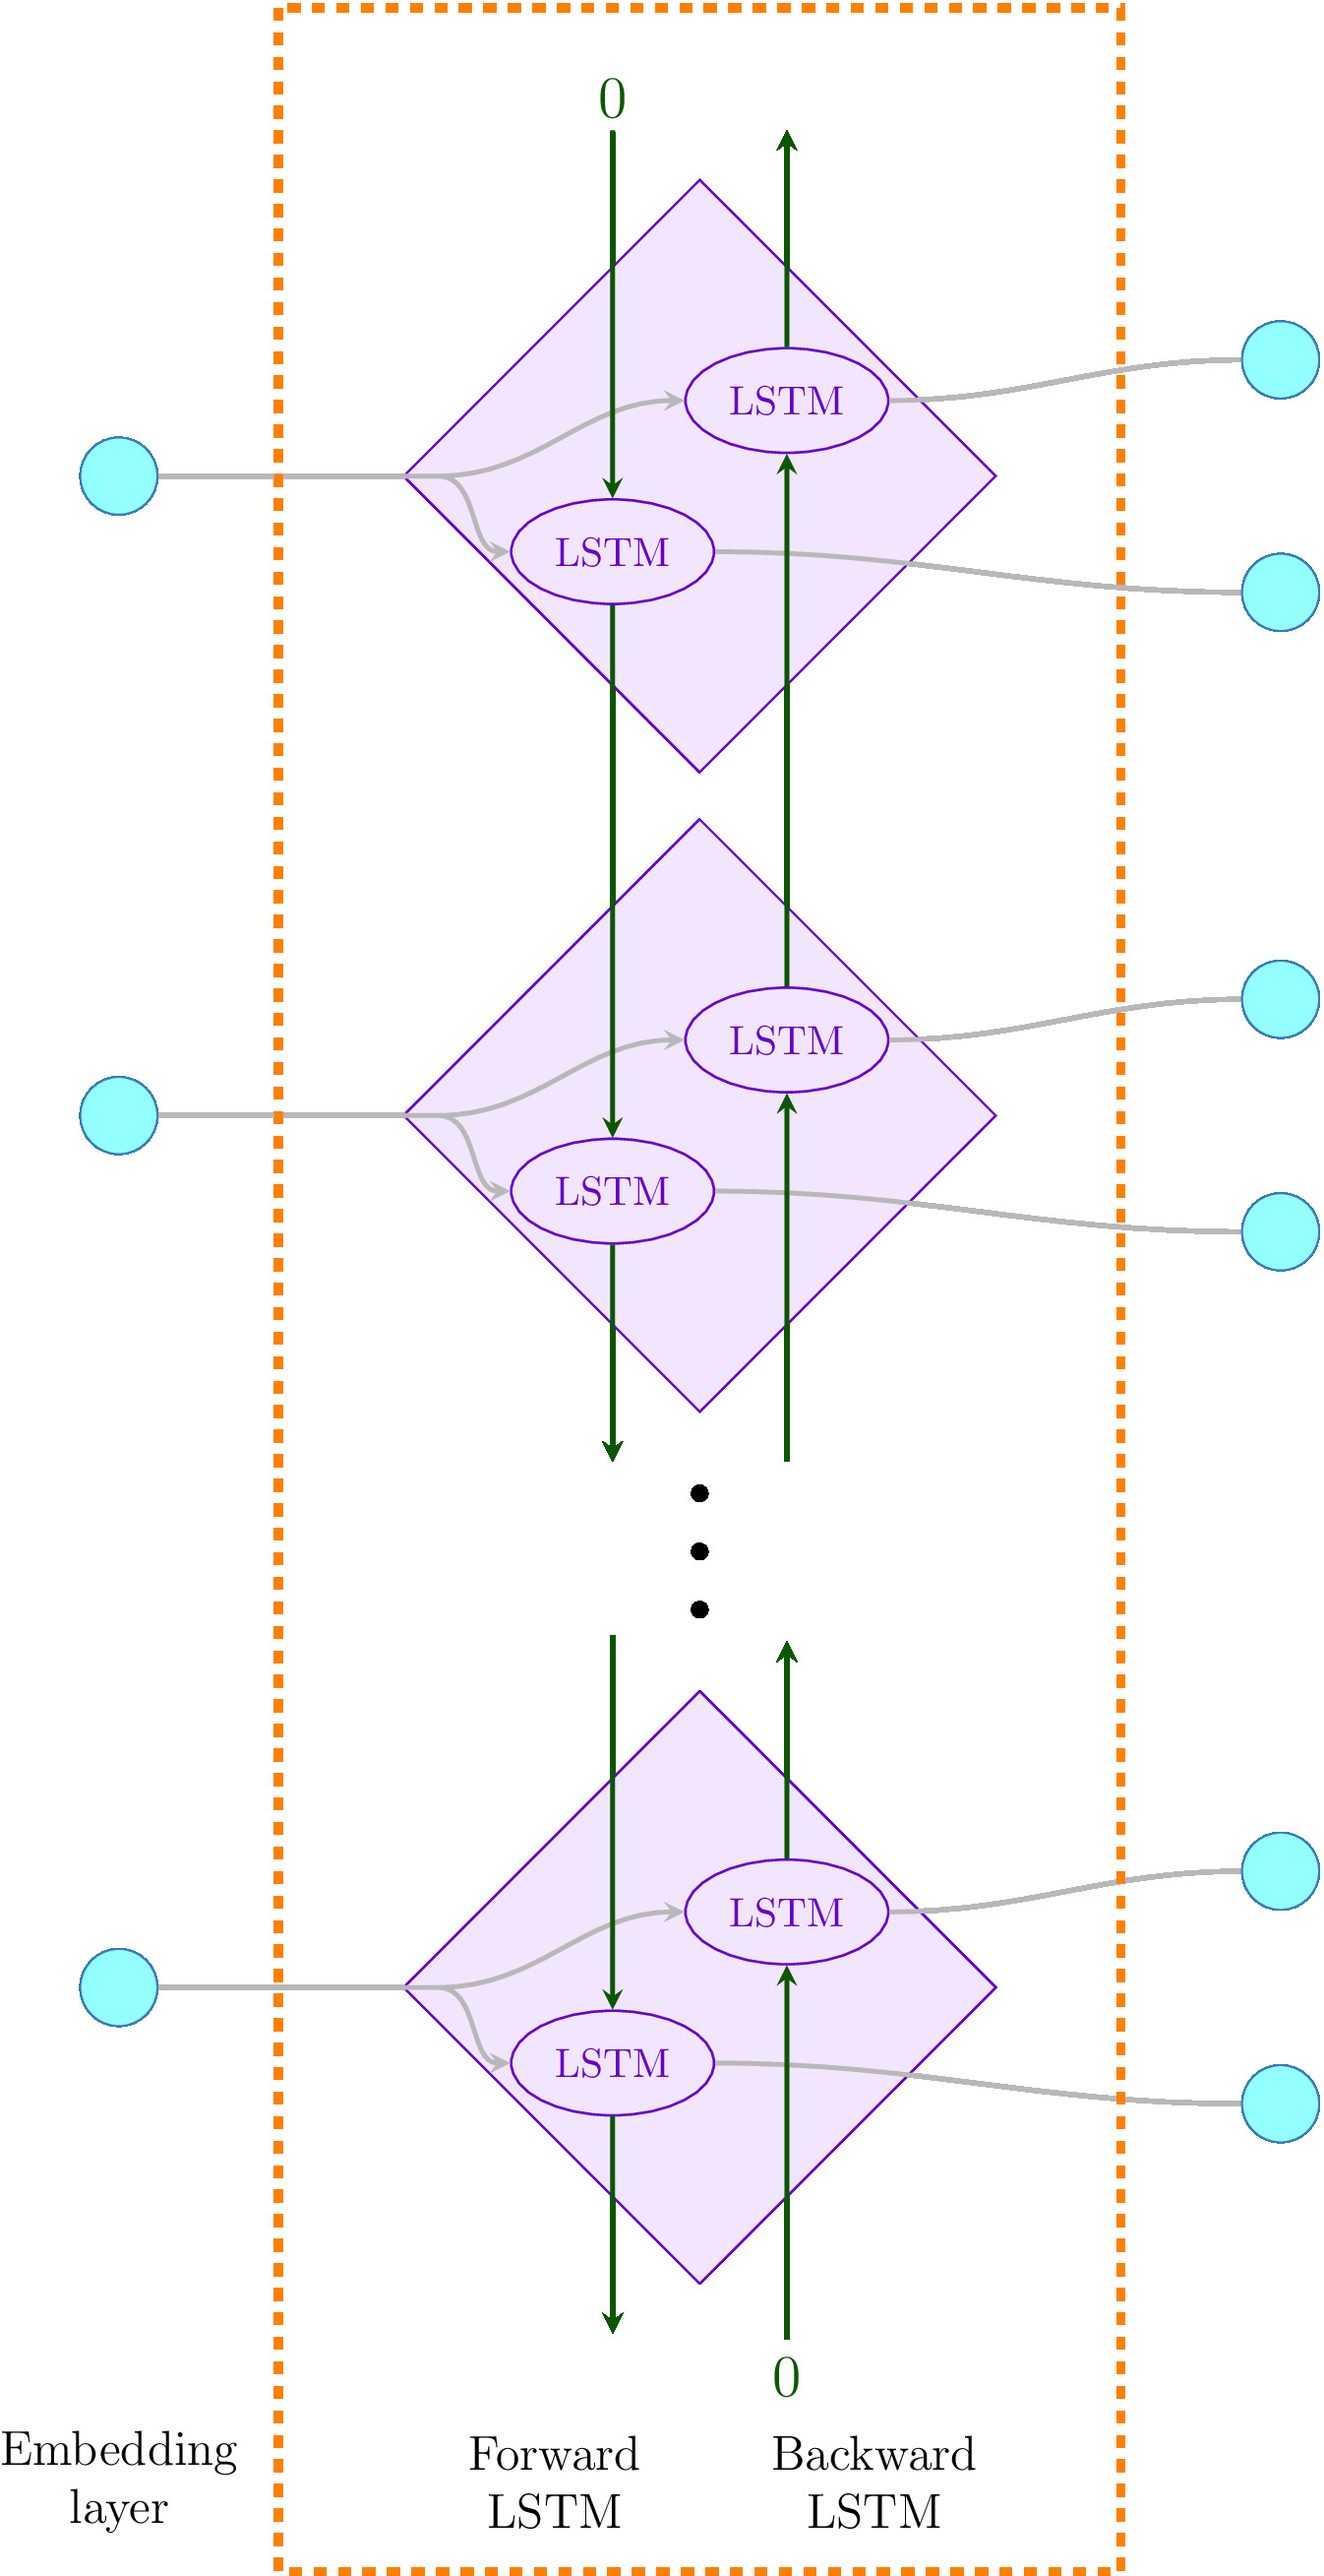
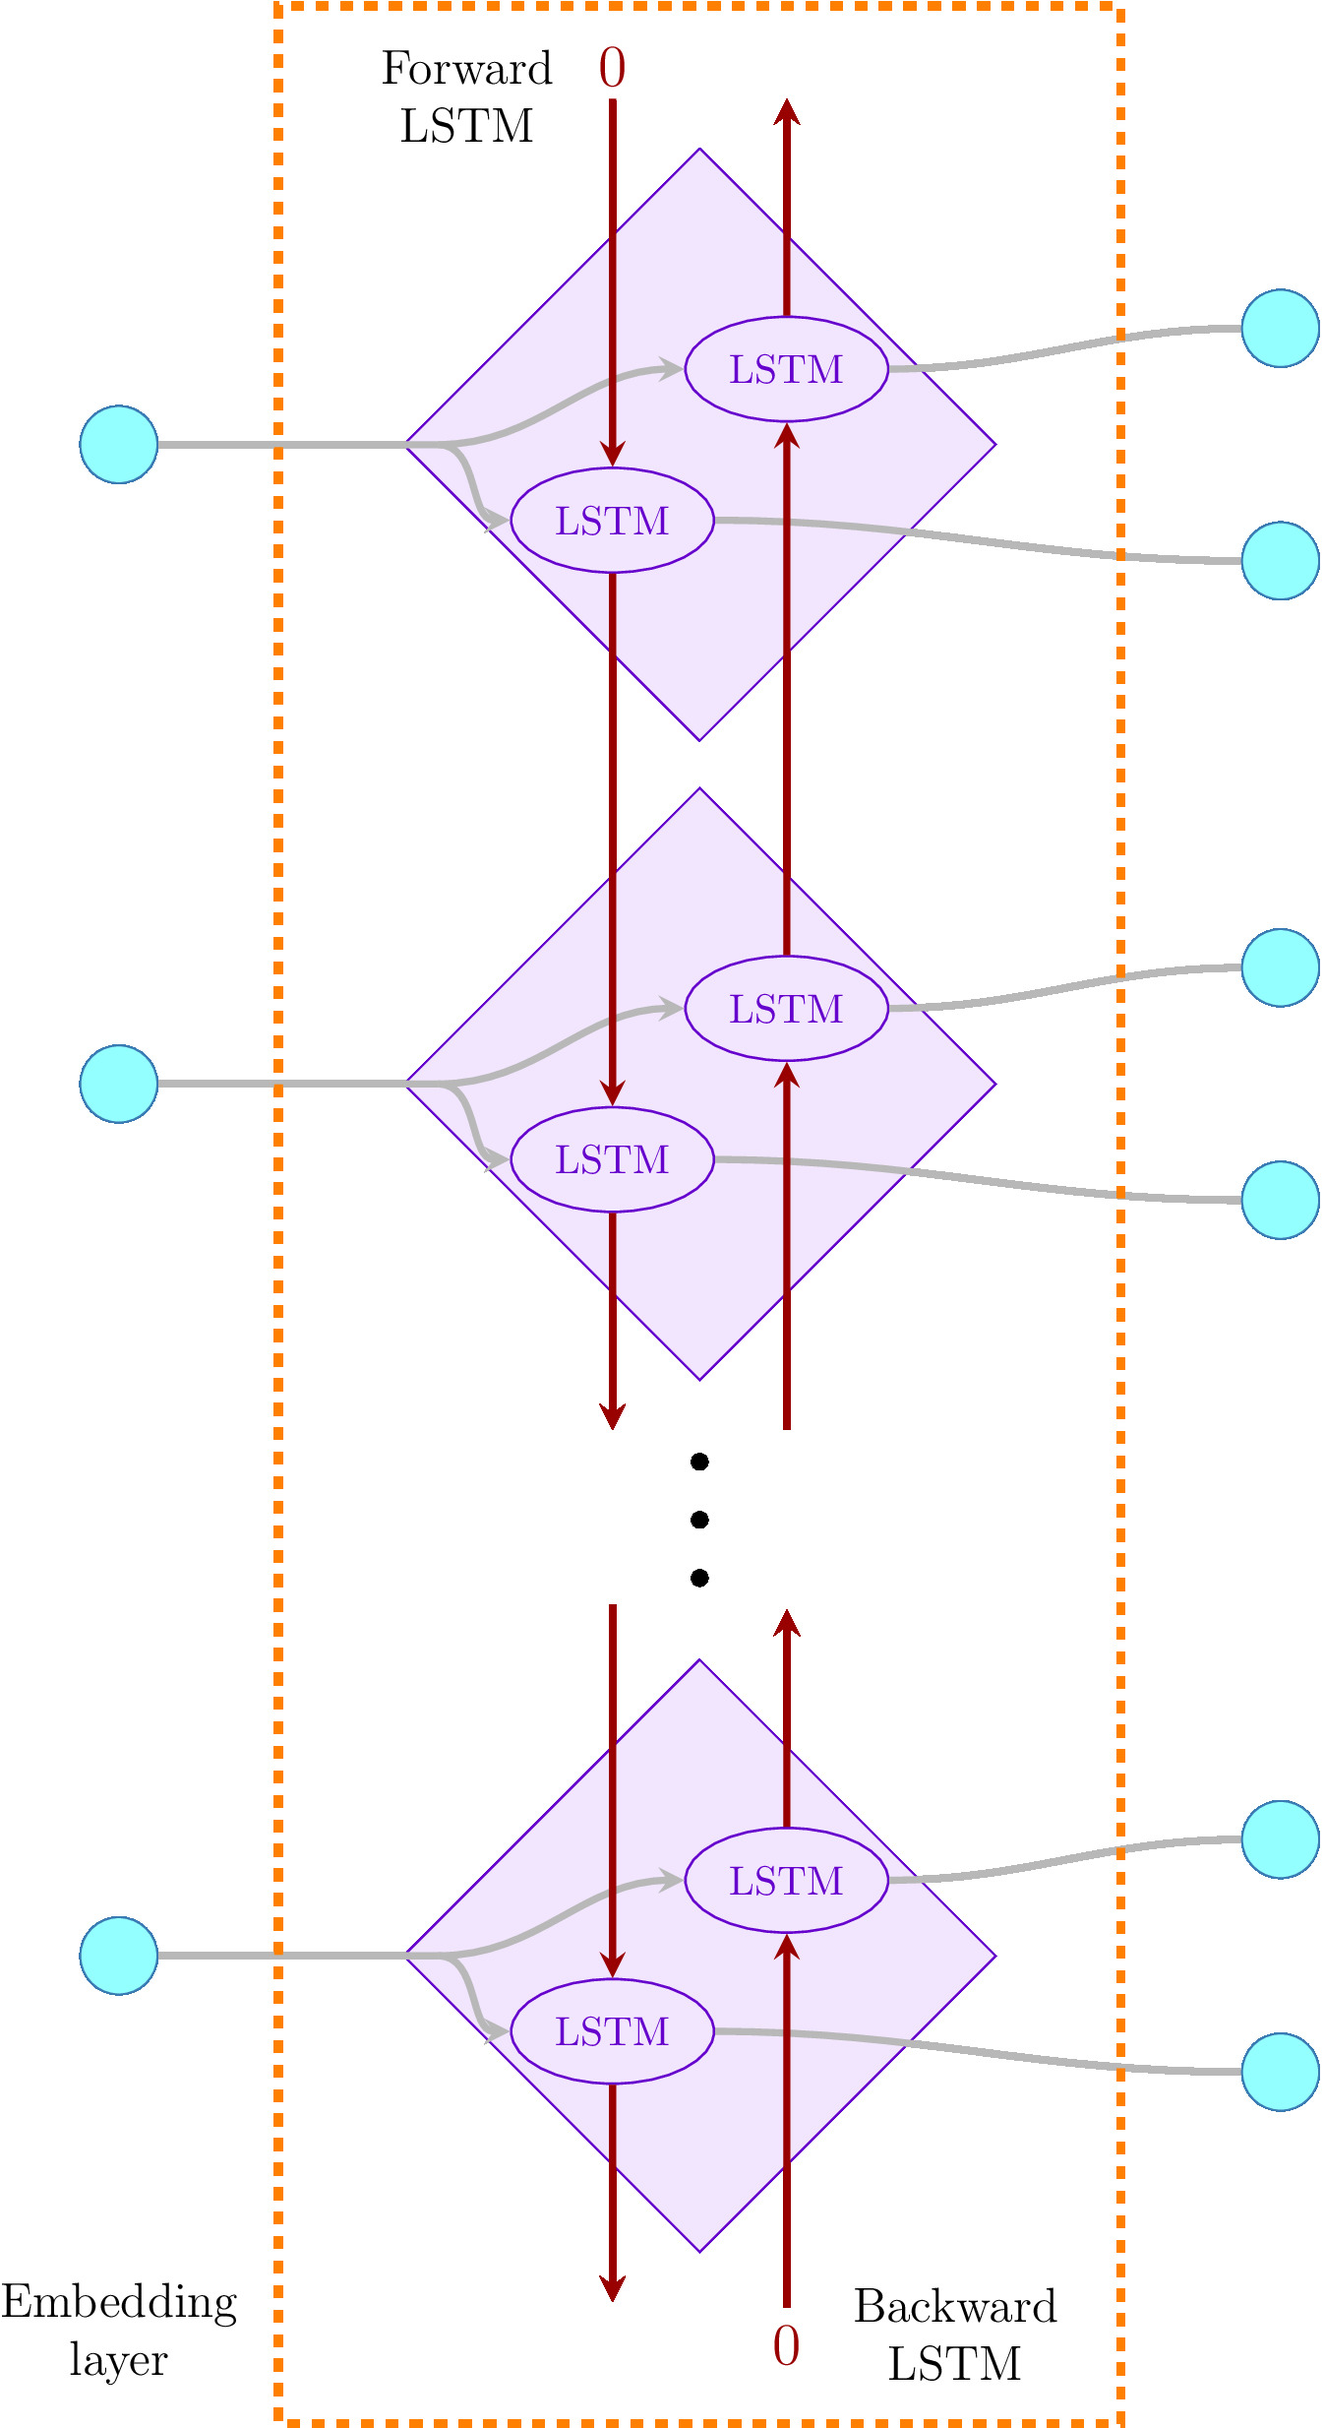
made figure slightly smaller

diff --git a/diagrams/RNN_block/RNN_block.tex b/diagrams/RNN_block/RNN_block.tex
@@ -19,6 +19,8 @@
 
 \definecolor{my_pink}{HTML}{f2e6ff}
 \definecolor{my_purple}{HTML}{6600CC}
+
+\definecolor{my_red}{HTML}{990000}
 \definecolor{dark_green}{HTML}{0C5600}
 \definecolor{dark_blue}{HTML}{086565}
 \definecolor{light_blue}{HTML}{B5E8E8}
@@ -47,7 +49,7 @@
 
 
 \tikzstyle{myText}=[fill=white, draw=white, shape=rectangle]
-\tikzstyle{index}=[rectangle, draw=white, fill=white, text=dark_green]
+\tikzstyle{index}=[rectangle, draw=white, fill=white, text=my_red]
 
 
 \tikzstyle{ellipsis}=[fill=black, draw=black, shape=circle]
@@ -56,10 +58,11 @@
 % Edge styles
 \tikzstyle{block}=[{|-|}]
 
-\tikzstyle{main_connector}=[-, draw={rgb,255: red,184; green,184; blue,184}, line width=0.4mm]
-\tikzstyle{arrow_connector}=[->, >=stealth, draw={rgb,255: red,184; green,184; blue,184}, line width=0.4mm]
+\tikzstyle{main_connector}=[-, draw={rgb,255: red,184; green,184; blue,184}, line width=0.6mm]
 
-\tikzstyle{internal_connector}=[->, >=stealth, draw=dark_green, line width=0.4mm]
+\tikzstyle{arrow_connector}=[->, >=stealth, draw={rgb,255: red,184; green,184; blue,184}, line width=0.6mm]
+
+\tikzstyle{internal_connector}=[->, >=stealth, draw=my_red, line width=0.6mm]
 
 
 \tikzstyle{secondary_concetor}=[-, draw={rgb,255: red,176; green,204; blue,229}, dashed]
@@ -145,20 +148,20 @@
         \node [style=none] (empty_4b) at (4.25, - 3.0 + \yTwo) {}; 
         
         % invisible dummy nodes for docking the big box
-        \node [style=none] (box_top_left) at (2.0,  3.5 ) {};
-        \node [style=none] (box_bottom_right) at (8.0, - 4.5 + \yTwo) {}; 
+        \node [style=none] (box_top_left) at (2.0,  3.25 ) {};
+        \node [style=none] (box_bottom_right) at (8.0, - 3.5 + \yTwo) {}; 
         
         
         % text 
-        \node [style=myText] (100) at (6.5, -4.0 + \yTwo) {\large Backward};
-        \node [style=myText] (101) at (6.5, -4.0 + \yTwo - 0.5) {\large LSTM};
+        \node [style=myText] (100) at (7.2, -3.0 + \yTwo) {\large Backward};
+        \node [style=myText] (101) at (7.2, -3.0 + \yTwo - 0.5) {\large LSTM};
         
-        \node [style=myText] (102) at (3.75, -4.0 + \yTwo) {\large Forward};
-        \node [style=myText] (103) at (3.75, -4.0 + \yTwo - 0.5) {\large LSTM};
+        \node [style=myText] (102) at (3., +3.25      ) {\large Forward};
+        \node [style=myText] (103) at (3., +3.25 - 0.5) {\large LSTM};
 
         
-        \node [style=myText] (102) at (0.0, -4.0 + \yTwo) {\large Embedding};
-        \node [style=myText] (103) at (0.0, -4.0 + \yTwo - 0.5) {\large layer};
+        \node [style=myText] (102) at (0.0, -3.0 + \yTwo) {\large Embedding};
+        \node [style=myText] (103) at (0.0, -3.0 + \yTwo - 0.5) {\large layer};
         
         % green text 
         \node [style=index] (0_1) at (5.75, -3.35 + \yTwo) {\Large $0$};
